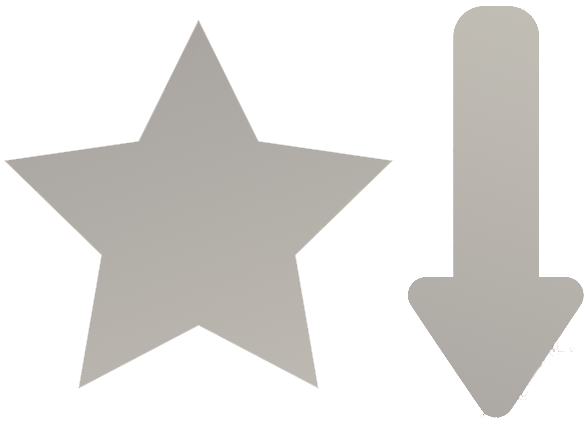
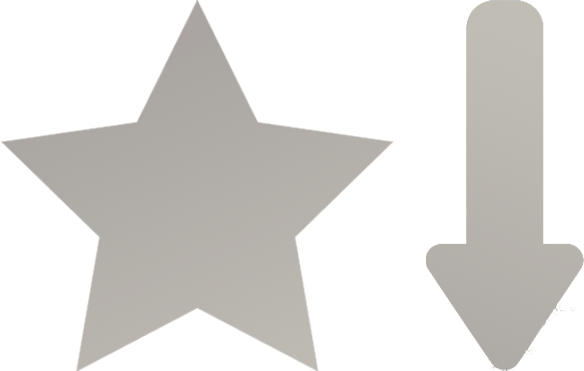
test

diff --git a/components/Desktop/Search/mainContainerFilters.tsx b/components/Desktop/Search/mainContainerFilters.tsx
@@ -162,6 +162,7 @@ export default function MainContainerFilters({isOpenFilter, isDarkMode, isCatego
                 </div>
             </div>
 
+            {/*mainFilters*/}
             <div className={isOpenFilter ? style.displayIn : style.displayOut}>
                 {
                     isCategory &&
@@ -209,11 +210,11 @@ export default function MainContainerFilters({isOpenFilter, isDarkMode, isCatego
                         </div>
                         <div className={style.buttonsCont}>
                             {
-                                principalFilters.map((item) =>
+                                principalFilters.map((item, index) =>
                                     <button key={item.Id}
                                          onClick={() => handleClickPrincipalFilters(item.Id, !item.IsSelected)}
                                          className={item.IsSelected ? style.gridButtonSelected : style.gridButton}>
-                                        <div className={style.imageSizeButton}>
+                                        <div className={index == 0? style.imageSizeButton : style.imageSizeButtonPrincipal}>
                                             <Image layout={"fill"} src={item.ImagePath} alt={""}/>
                                         </div>
                                         <div className={`${utilities.fontPrimarText} ${style.paddingText}`}>
@@ -228,6 +229,7 @@ export default function MainContainerFilters({isOpenFilter, isDarkMode, isCatego
                 </div>
             </div>
 
+            {/*advancedFilters*/}
             <div className={isOpenAdvancedFilter ? style.displayOutAdb : style.displayInAdb}>
                 <div className={displayAdvanced}>
                     <div className={`${utilities.gridMaxContent2} ${style.paddingSubtitle} justify-between`}>

diff --git a/styles/Desktop/Search/layoutPrincipalFilters.module.css b/styles/Desktop/Search/layoutPrincipalFilters.module.css
@@ -159,7 +159,11 @@
     height: 20px;
     width: 20px;
     position: relative;
-
+}
+.imageSizeButtonPrincipal{
+    height: 20px;
+    width: 28px;
+    position: relative;
 }
 
 .gridFilterImage {
